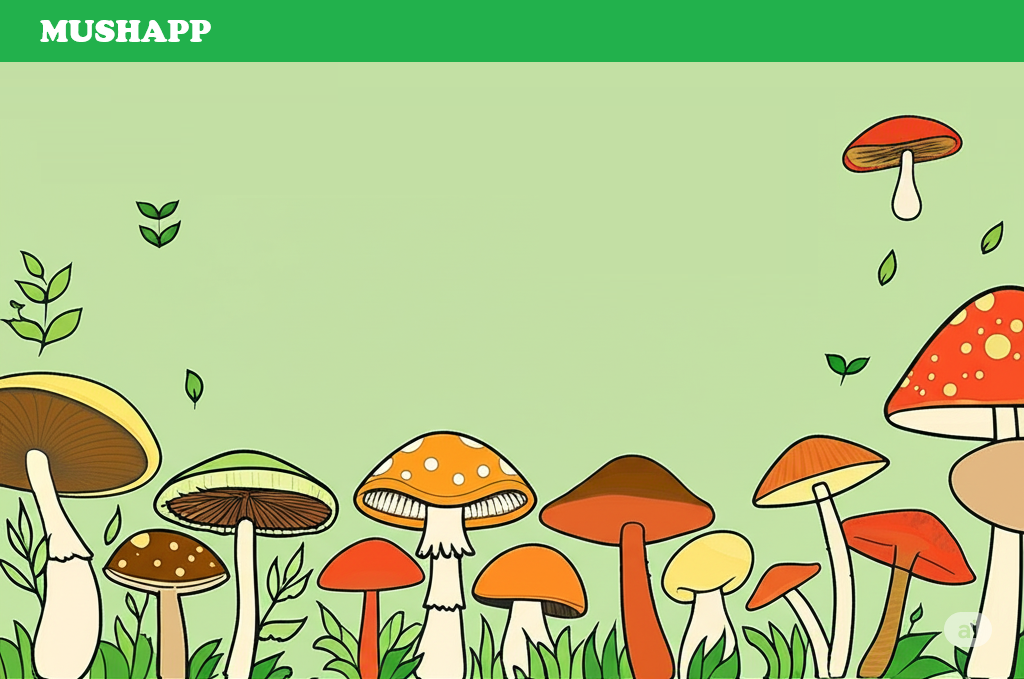
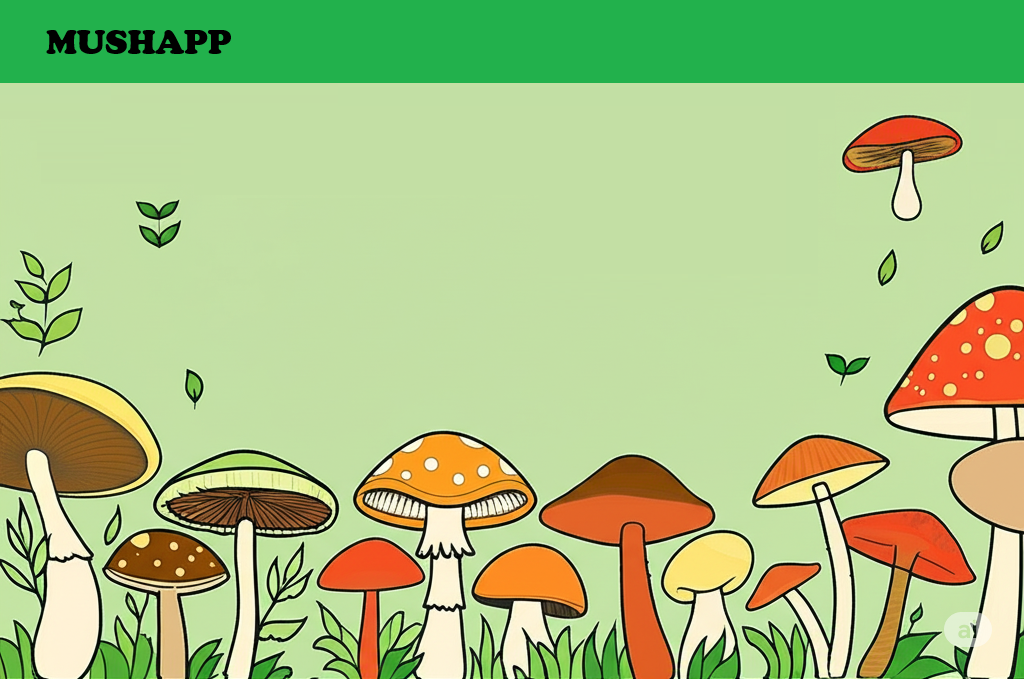
Added Background

Changed region(s): [[0.0, 0.0309, 1.0, 0.1237]]

diff --git a/gui/main.py b/gui/main.py
@@ -109,7 +109,7 @@ class TabButtonLayout(QWidget):
         super().__init__()
         
         # INITIATION
-        self.bg = QPixmap("images/bg.png")
+        self.bg = QPixmap("images/bg2.png")
 
         self.loading_overlay = LoadingOverlay(self)
         self.init = True
